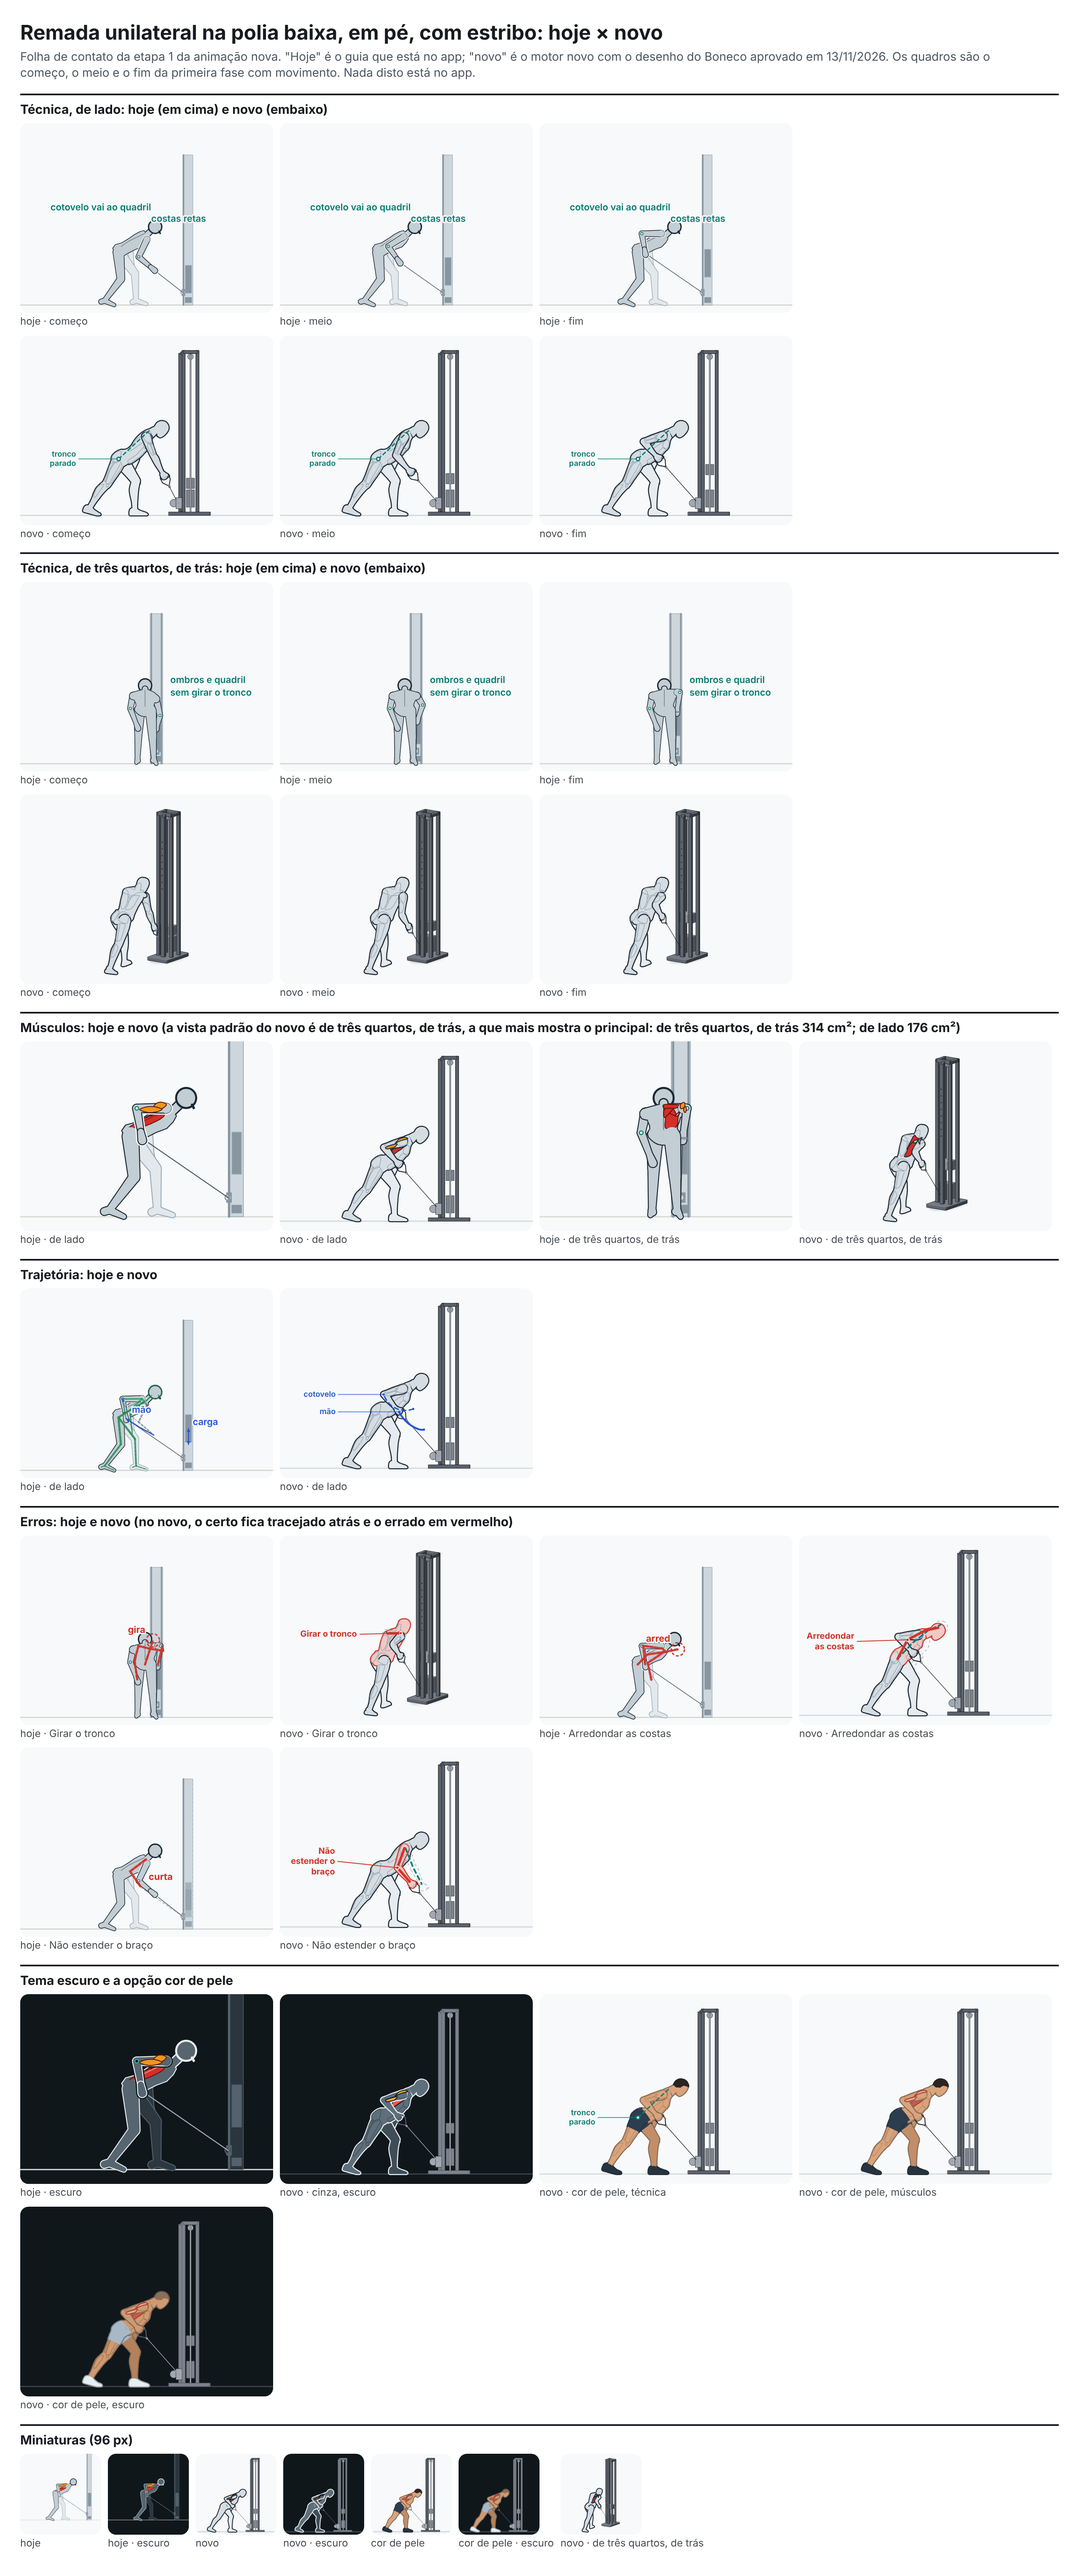
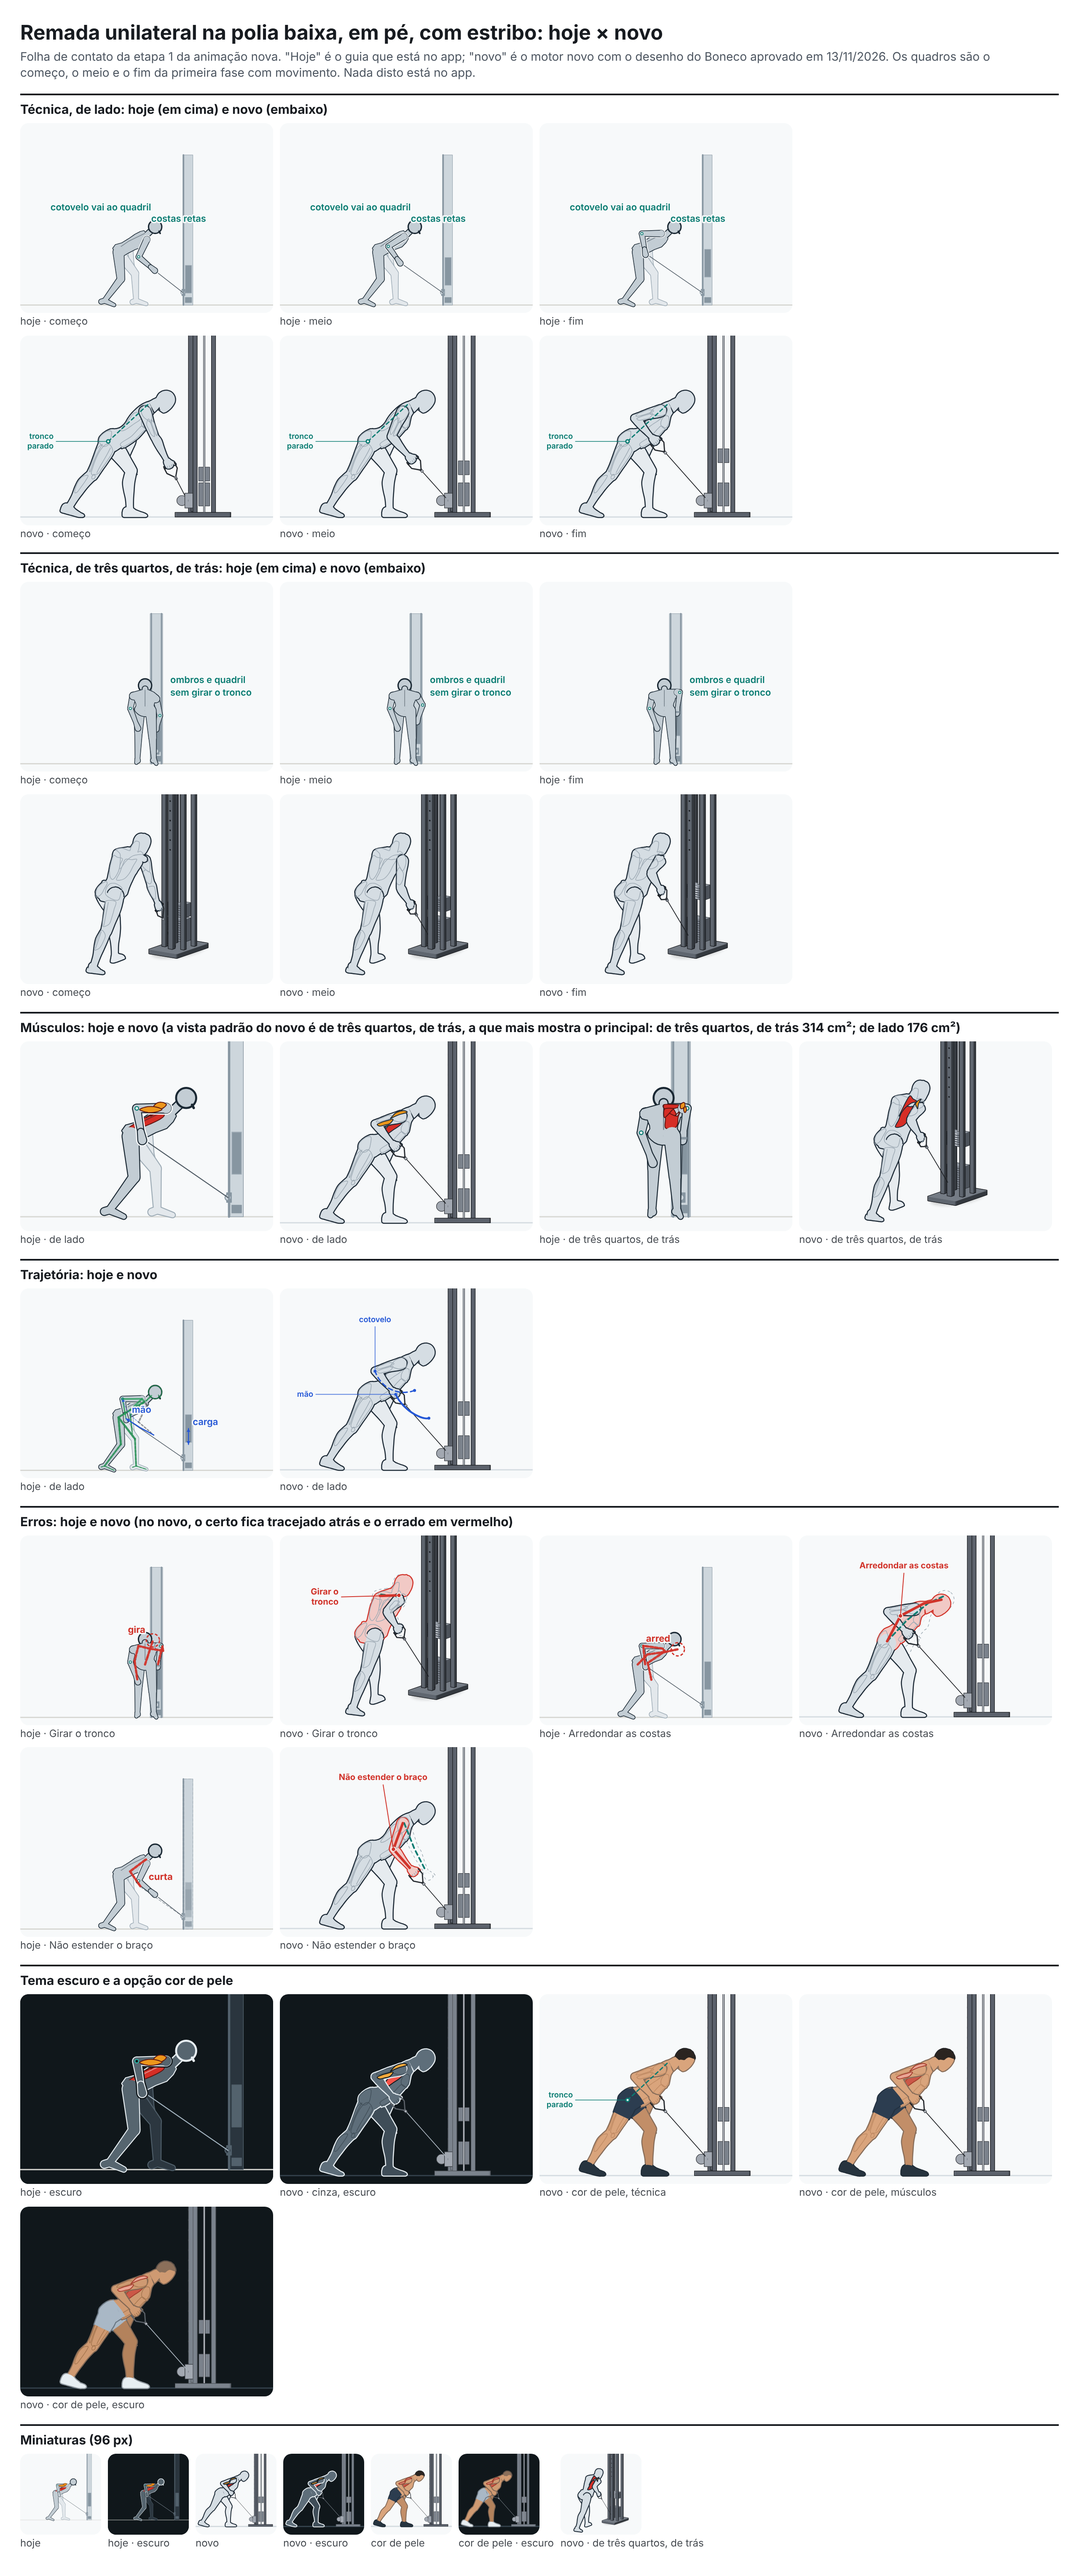
Junta três exercícios na polia e deixa a coluna ser cortada em cima pelo quadro
Na polia baixa, a coluna de 2,39 m entrava inteira no enquadramento e o corpo ficava pequeno. A peça ganha a opção de dizer até que altura o quadro precisa mostrá-la; o resto é cortado pela borda. Vale para a remada de um braço e para o tríceps francês de um braço na polia.

Claude-Session: https://claude.ai/code/session_01YRzts7dTzBdkrmTDEnq8bW

diff --git a/src/engine/novo/equipamento.ts b/src/engine/novo/equipamento.ts
@@ -266,8 +266,32 @@ export function equipamentoRealista(pecas: Peca[], cam: Camera, tema: Tema, id: 
         b = desenhar(null, cam, `${pid}m`, (C) => torreMovel(C, M, p.torre, p.subida));
       // como cenário, a coluna vai para uma camada atrás do corpo (e do corpo tracejado dos erros) e fora do enquadramento
       const fundo = (r: { itens: Item[]; defs: string }) => (p.cenario ? { itens: r.itens.map((it) => (it.camada >= 1 ? { ...it, camada: 0.4 } : it)), defs: r.defs } : r);
-      junta(fundo(a));
-      junta(fundo(b));
+      if (p.cortadaEmCima === undefined || p.cenario) {
+        junta(fundo(a));
+        junta(fundo(b));
+      } else {
+        // o enquadramento só conta a coluna até a altura pedida: a caixa na tela dessa parte de baixo
+        const cx: [number, number, number, number] = [1e9, 1e9, -1e9, -1e9];
+        const f = norm(p.torre.frente),
+          lado = norm(cross(f, Y));
+        for (const dl of [-1, 1])
+          for (const df of [-0.55, 0.3])
+            for (const y of [0, p.cortadaEmCima]) {
+              const q = comb([1, p.torre.base], [(dl * obj('torre', 'colunaLarg')) / 2, lado], [y, Y], [df * obj('torre', 'prof'), f]);
+              const tx = dot(q, cam.dir),
+                ty = -dot(q, cam.cima);
+              cx[0] = Math.min(cx[0], tx);
+              cx[1] = Math.min(cx[1], ty);
+              cx[2] = Math.max(cx[2], tx);
+              cx[3] = Math.max(cx[3], ty);
+            }
+        const semCaixa = (r: { itens: Item[]; defs: string }, comCx: boolean) => {
+          const primeiro = r.itens.findIndex((it) => it.camada >= 1);
+          return { itens: r.itens.map((it, i) => ({ ...it, cx: comCx && i === primeiro ? cx : undefined })), defs: r.defs };
+        };
+        junta(semCaixa(a, true));
+        junta(semCaixa(b, false));
+      }
     } else if (p.t === 'estribo') junta(desenhar(null, cam, pid, (C) => estribo(C, M, p)));
     else if (p.t === 'kettlebell') junta(desenhar(null, cam, pid, (C) => kettlebell(C, M, p)));
     else if (p.t === 'elastico') junta(desenhar(null, cam, pid, (C) => elastico(C, M, p)));

diff --git a/src/engine/novo/exercicios/polia-puxar.ts b/src/engine/novo/exercicios/polia-puxar.ts
@@ -43,12 +43,13 @@ export function folgaEntre(e: Esq, a: (parte: string, p: V3) => boolean, b: (par
  * A coluna de polia e o cabo, reto da roldana até o ponto em que ele prende (`prende`: o elo do estribo, a ponta do
  * triângulo ou a bucha da corda). `repouso` é o comprimento do cabo com a pilha no lugar (a pilha fica 2 cm acima do
  * apoio, para se ver que está levantada); cada centímetro a mais de cabo sobe a pilha meio centímetro (a relação 2:1).
+ * `cortadaEmCima`: até que altura o quadro precisa mostrar a coluna (polia baixa: o resto é cortado pela borda).
  */
-export function cenaDaPolia(t: Torre, prende: V3, repouso: number, cenario = false): { prims: Quadro['prims']; pecas: Peca[]; comp: number; subida: number; saida: V3 } {
+export function cenaDaPolia(t: Torre, prende: V3, repouso: number, cenario = false, cortadaEmCima?: number): { prims: Quadro['prims']; pecas: Peca[]; comp: number; subida: number; saida: V3 } {
   const saida = saidaDoCabo(t, prende);
   const comp = dist(prende, saida);
   const subida = Math.max(0, comp - repouso) / obj('torre', 'relacao') + 2;
-  return { prims: [...torre(t, subida), cabo(prende, saida)], pecas: [{ t: 'torre', torre: t, subida, ...(cenario ? { cenario } : {}) }, { t: 'cabo', a: prende, b: saida }], comp, subida, saida };
+  return { prims: [...torre(t, subida), cabo(prende, saida)], pecas: [{ t: 'torre', torre: t, subida, ...(cenario ? { cenario } : {}), ...(cortadaEmCima !== undefined ? { cortadaEmCima } : {}) }, { t: 'cabo', a: prende, b: saida }], comp, subida, saida };
 }
 
 export interface BracoPeloCabo {

diff --git a/src/engine/novo/aprovados.ts b/src/engine/novo/aprovados.ts
@@ -54,6 +54,9 @@ export const APROVADOS: Record<string, { em: string; oQueEleDisse: string; como?
   'rosca-elastico': { em: '2026-11-15', oQueEleDisse: DELEGOU, como: 'por delegação' },
   'remada-elastico': { em: '2026-11-15', oQueEleDisse: DELEGOU, como: 'por delegação' },
   'puxada-elastico': { em: '2026-11-15', oQueEleDisse: DELEGOU, como: 'por delegação' },
+  'remada-baixa': { em: '2026-11-15', oQueEleDisse: DELEGOU, como: 'por delegação' },
+  'remada-unilateral-polia': { em: '2026-11-15', oQueEleDisse: DELEGOU, como: 'por delegação' },
+  'abdominal-polia': { em: '2026-11-15', oQueEleDisse: DELEGOU, como: 'por delegação' },
   'extensao-triceps-peso-corpo': { em: '2026-11-15', oQueEleDisse: 'podem ficar assim, segue com as próximas', como: 'nos quadros' },
   'flexao-bola': { em: '2026-11-15', oQueEleDisse: 'podem ficar assim, segue com as próximas', como: 'nos quadros' },
   'flexao-pes-elevados': { em: '2026-11-15', oQueEleDisse: 'podem ficar assim, segue com as próximas', como: 'nos quadros' },

diff --git a/src/engine/novo/pecas.ts b/src/engine/novo/pecas.ts
@@ -126,7 +126,18 @@ export type Peca =
    * `cenario`: a coluna só serve de apoio para a mão (não é o equipamento do exercício). Ela é pintada atrás do corpo,
    * não entra no enquadramento (o quadro a corta em cima) e não aparece de perfil, onde ficaria atrás do tronco.
    */
-  | { t: 'torre'; torre: Torre; subida: number; cenario?: boolean }
+  | {
+      t: 'torre';
+      torre: Torre;
+      subida: number;
+      cenario?: boolean;
+      /**
+       * `cortadaEmCima`: a coluna continua sendo o equipamento do exercício (pintada na ordem certa, também de perfil),
+       * mas o enquadramento só precisa mostrá-la até essa altura (cm); o resto é cortado pela borda do quadro. Para os
+       * exercícios na polia baixa: sem isso, a coluna de 2,39 m deixava o corpo pequeno no quadro.
+       */
+      cortadaEmCima?: number;
+    }
   | { t: 'estribo'; pegada: V3; eixo: V3; elo: V3 }
   | { t: 'cabo'; a: V3; b: V3 }
   | { t: 'colchonete'; x0: number; z0: number }

diff --git a/src/engine/novo/exercicios/triceps-frances-base.ts b/src/engine/novo/exercicios/triceps-frances-base.ts
@@ -332,7 +332,7 @@ export function criarTricepsFrances(fichaJson: unknown, carga: CargaDoFrances): 
       const comp = dist(est.elo, saida);
       const subida = Math.max(0, comp - c.compMin) / obj('torre', 'relacao') + 2;
       const prims = [chao(-60, 60, c.polia.base[2] - 50, 80), ...torre(c.polia, subida), ...est.prims, cabo(est.elo, saida)];
-      const pecas: Peca[] = [{ t: 'torre', torre: c.polia, subida }, { t: 'estribo', pegada: R.pegada, eixo: R.mao.x, elo: est.elo }, { t: 'cabo', a: est.elo, b: saida }];
+      const pecas: Peca[] = [{ t: 'torre', torre: c.polia, subida, cortadaEmCima: 150 }, { t: 'estribo', pegada: R.pegada, eixo: R.mao.x, elo: est.elo }, { t: 'cabo', a: est.elo, b: saida }];
       marcas.elo = est.elo;
       marcas.pilha = [0, subida, 0];
       marcas.saida = saida;

diff --git a/src/engine/novo/exercicios/remada-unilateral-polia.ts b/src/engine/novo/exercicios/remada-unilateral-polia.ts
@@ -123,7 +123,7 @@ function quadro(corpo: Corpo, u: number, erro?: string): Quadro {
   // na volta curta, o braço não volta além da metade do caminho
   const uu = erro === 'curta' ? mix(f('erro.curta.fracao'), 1, u) : u;
   const r = montar(corpo, c, t, uu);
-  const polia = cenaDaPolia(c.torre, r.est.elo, c.repouso);
+  const polia = cenaDaPolia(c.torre, r.est.elo, c.repouso, false, 150);
   return {
     esq: r.e,
     prims: [...c.b.prims, ...polia.prims, ...r.est.prims],

diff --git a/docs/revisoes/animacao-nova/andamento.md b/docs/revisoes/animacao-nova/andamento.md
@@ -2,7 +2,7 @@
 
 Atualizado por quem integra, a cada família juntada. "Aprovada na folha" = o Gustavo olhou e aprovou. "Aprovada por delegação" = conferida por quem integra, risco baixo, registrada com a frase dele de 15/11/2026. "Para o Gustavo ver" = risco médio ou alto: só entra na lista do app depois do ok dele. "Correção de qualidade" = desde o aviso dele de 15/11 ("o fato de eu ter delegado [...] não quer dizer que a gente pode diminuir a qualidade"), nenhuma animação delegada conta como pronta enquanto tiver defeito visível nos quadros (seção 8 de `como-fazer-uma-animacao.md`). As folhas ficam em `prototipos/folha-<id>.png` e os quadros grandes em `quadros/<id>.png`.
 
-Resumo: 15 aprovadas pelo Gustavo (7 na folha e 8 vendo os quadros); 42 por delegação; 2 prontas para o Gustavo ver; 4 das quatro primeiras sem aprovação na folha; 15 em andamento; 12 por fazer.
+Resumo: 15 aprovadas pelo Gustavo (7 na folha e 8 vendo os quadros); 45 por delegação; 2 prontas para o Gustavo ver; 4 das quatro primeiras sem aprovação na folha; 12 em andamento; 12 por fazer.
 
 | Lote | Exercício | Estado |
 |---|---|---|
@@ -41,13 +41,13 @@ Resumo: 15 aprovadas pelo Gustavo (7 na folha e 8 vendo os quadros); 42 por dele
 | 4 | `face-pull-elastico` | não entregue: com os braços à frente, o desenho do ombro de trás quase não aparece em nenhuma vista (9 cm², e o mínimo é 30); depende de um acerto no desenho desse músculo |
 | 4 | `puxada-elastico` | feita e conferida quadro a quadro por quem integra; aprovada por delegação (o tubo preso no alto de uma porta) |
 | 4 | `remada-apoiada` | em andamento (subagente) |
-| 4 | `remada-baixa` | em andamento (subagente) |
+| 4 | `remada-baixa` | feita e conferida quadro a quadro por quem integra; aprovada por delegação (sentado no banco, com o triângulo; vistas de três quartos e de trás; no corpo da mulher duas regras ainda falham) |
 | 4 | `remada-curvada-halteres` | feita e conferida quadro a quadro por quem integra; aprovada por delegação |
 | 4 | `remada-elastico` | feita e conferida quadro a quadro por quem integra; aprovada por delegação (sentado no chão; duas voltas do tubo em cada mão, para ele não ficar frouxo) |
 | 4 | `remada-suspensao` | feita e conferida quadro a quadro por quem integra; aprovada por delegação (o ponto de prender a fita fica a 183 cm, a altura do fabricante; hoje 205) |
 | 4 | `remada-unilateral` | feita e conferida quadro a quadro por quem integra; aprovada por delegação |
 | 4 | `remada-unilateral-kettlebell` | feita e conferida quadro a quadro por quem integra; aprovada por delegação |
-| 4 | `remada-unilateral-polia` | em andamento (subagente) |
+| 4 | `remada-unilateral-polia` | feita e conferida quadro a quadro por quem integra; aprovada por delegação (a coluna passou a ser cortada em cima pelo quadro, para o corpo ocupar o quadro) |
 | 4 | `remada-unilateral-sem-banco` | feita e conferida quadro a quadro por quem integra; aprovada por delegação |
 | 4 | `yt-suspensao` | feita e conferida quadro a quadro por quem integra; aprovada por delegação |
 | 5 | `rosca-alternada` | aprovada pelo Gustavo em 15/11/2026, vendo os quadros ("podem ficar assim, segue com as próximas"); depois refeita com o halter de 10 lb: os braços voltaram para junto do corpo (6°) e a palma para a frente. **Para o Gustavo ver** de novo, porque mudou |
@@ -84,7 +84,7 @@ Resumo: 15 aprovadas pelo Gustavo (7 na folha e 8 vendo os quadros); 42 por dele
 | 7 | `abdominal-bola` | feita e conferida quadro a quadro por quem integra; aprovada por delegação |
 | 7 | `abdominal-chao` | feita e conferida quadro a quadro por quem integra; aprovada por delegação |
 | 7 | `abdominal-invertido` | feita e conferida quadro a quadro por quem integra; aprovada por delegação |
-| 7 | `abdominal-polia` | em andamento (subagente) |
+| 7 | `abdominal-polia` | feita e conferida quadro a quadro por quem integra; aprovada por delegação |
 | 7 | `abducao-caneleira` | por fazer |
 | 7 | `abducao-deitado` | por fazer |
 | 7 | `abducao-mini-band` | por fazer |
